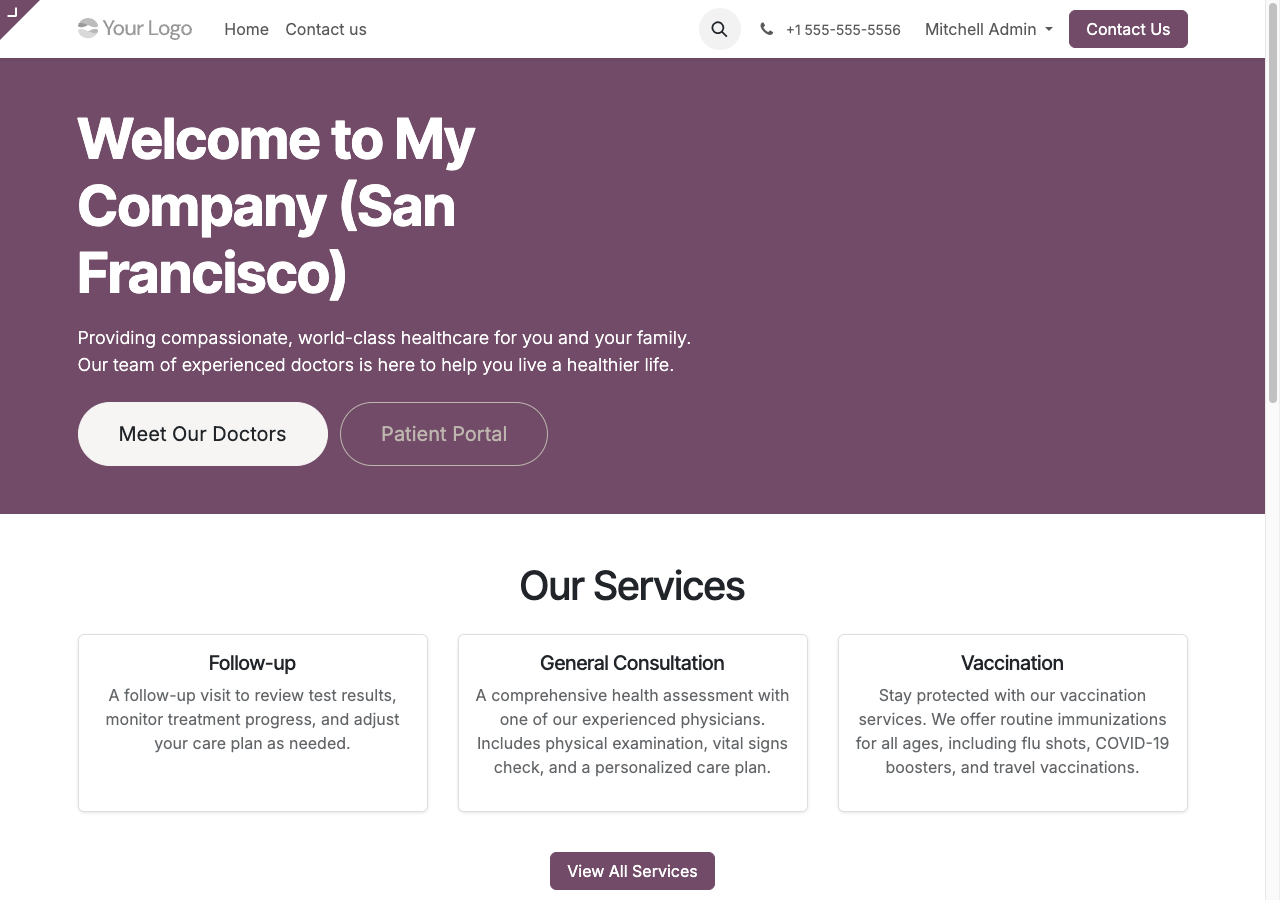
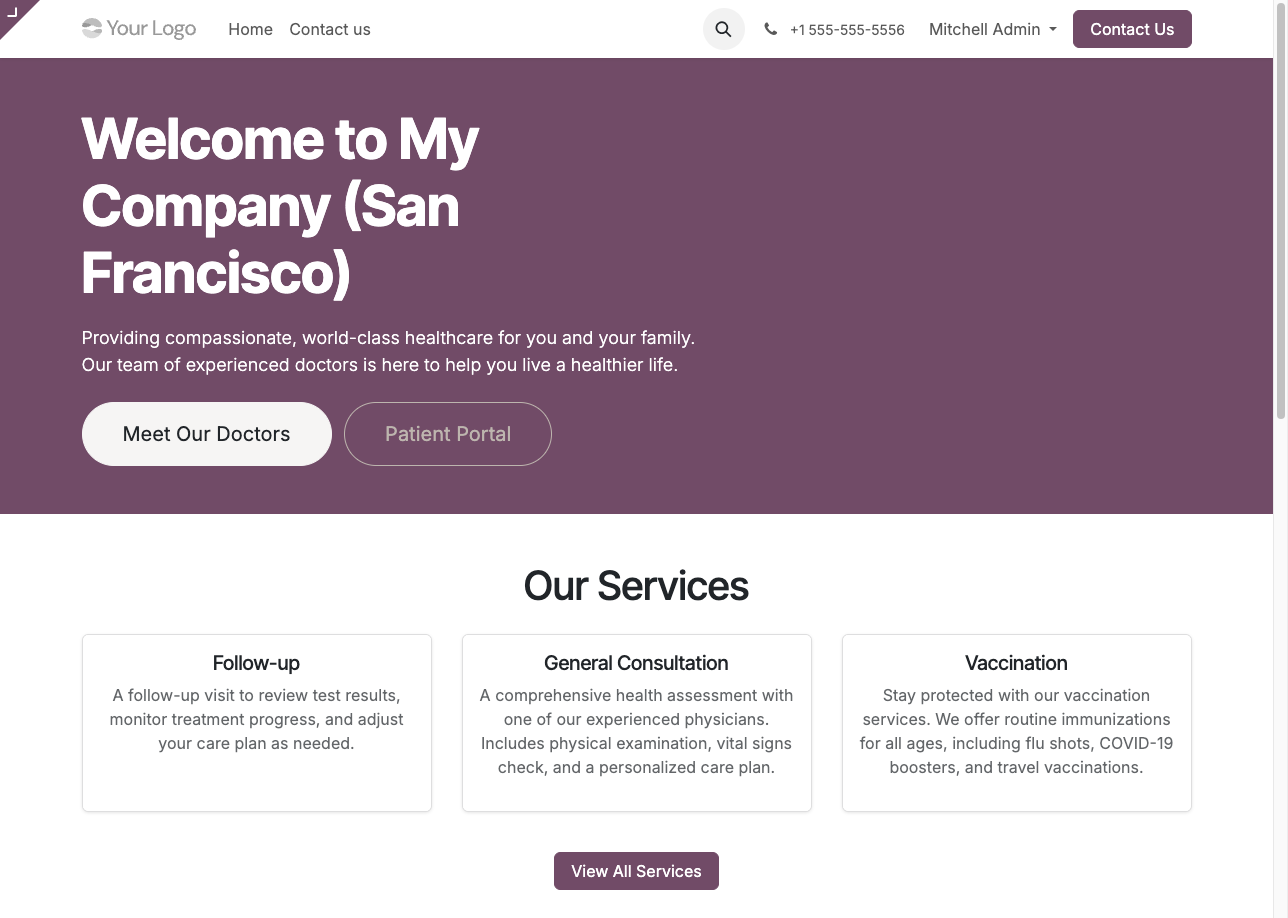
fix(hms_website): set /hospital as homepage via post_init_hook
The XML data approach for setting homepage_url on website.default_website
was unreliable (external ID resolution + noupdate). Replaced with a
post_init_hook that sets homepage_url='/hospital' on the first website
record during module install. Now localhost:8069/ shows the hospital
home page directly.

diff --git a/hms_website/hooks.py b/hms_website/hooks.py
@@ -1,0 +1,5 @@
+def post_init_hook(env):
+    """Set /hospital as the default website homepage on install."""
+    website = env["website"].search([], limit=1)
+    if website and not website.homepage_url:
+        website.homepage_url = "/hospital"

diff --git a/hms_website/__manifest__.py b/hms_website/__manifest__.py
@@ -19,5 +19,6 @@ the patient portal via login/CTA buttons.
     "demo": [
         "demo/demo_data.xml",
     ],
+    "post_init_hook": "post_init_hook",
     "installable": True,
 }
